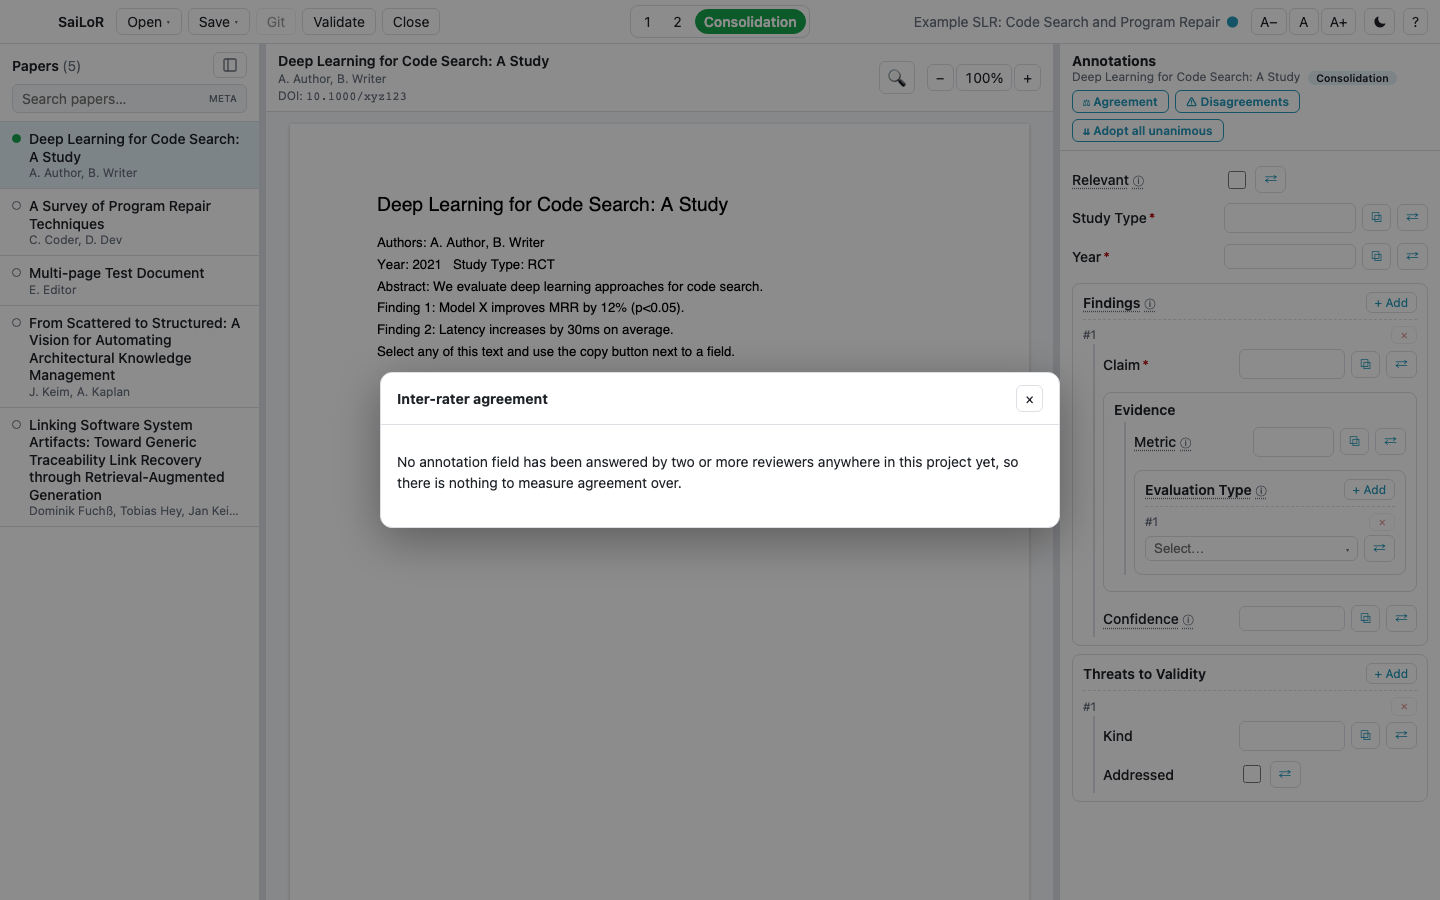
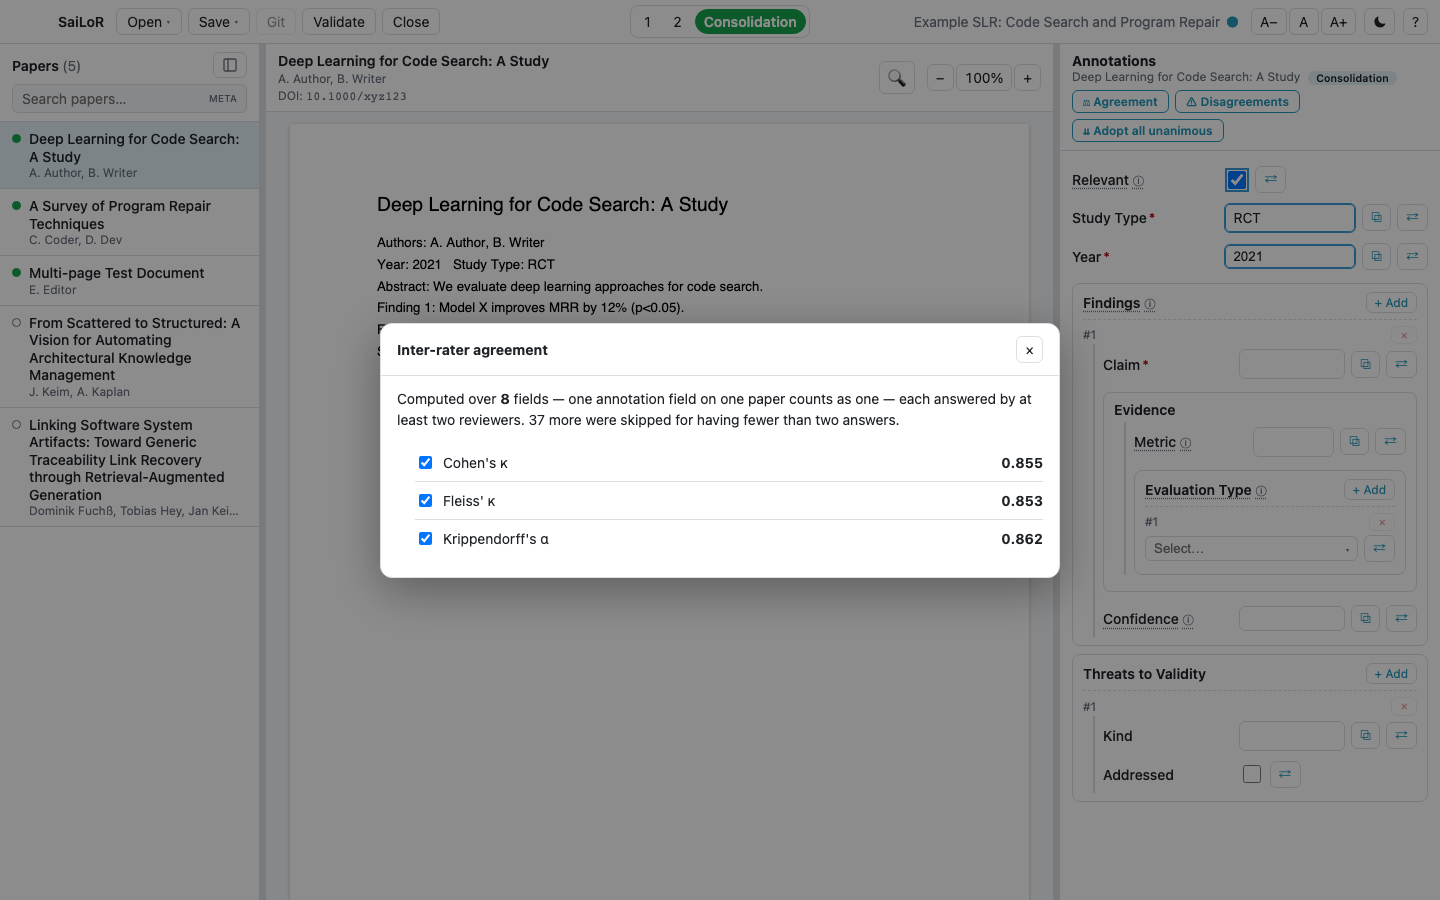
Recapture the Agreement/Disagreements screenshots with real data
Both dialogs previously showed their empty state: the earlier capture
script had each reviewer answer a different field, so no field was
ever rated by two reviewers and there was nothing to compute agreement
over. Recaptured with two reviewers actually annotating three papers
on the same fields (mostly matching, with one deliberate mismatch), so
the Agreement dialog now shows real Cohen's/Fleiss'/Krippendorff's
values and the Disagreements dialog shows a real entry instead of
"None".

Changed region(s): [[0.25, 0.3422, 0.75, 0.6533], [0.8438, 0.1867, 0.9375, 0.3111]]

diff --git a/user-guide/multi-reviewer.md b/user-guide/multi-reviewer.md
@@ -62,7 +62,7 @@ silently recording an empty "agreement".
 Two buttons above the annotation fields, visible only in the Consolidation seat:
 
 <p align="center">
-  <img src="screenshots/disagreements-dialog.png" alt="The Disagreements dialog" width="700">
+  <img src="screenshots/disagreements-dialog.png" alt="The Disagreements dialog listing one field where the two reviewers gave different answers, with both answers shown side by side" width="700">
 </p>
 
 **⚠ Disagreements** lists every field the reviewers answered differently, across the whole project —
@@ -70,7 +70,7 @@ click one to jump straight to it instead of hunting paper by paper. **⚖ Agreem
 inter-rater coefficients — Cohen's κ, Fleiss' κ, and Krippendorff's α — tick any combination you want.
 
 <p align="center">
-  <img src="screenshots/agreement-dialog.png" alt="The Agreement dialog" width="700">
+  <img src="screenshots/agreement-dialog.png" alt="The Agreement dialog showing Cohen's kappa, Fleiss' kappa, and Krippendorff's alpha all computed from real overlapping annotations" width="700">
 </p>
 
 A coefficient that can't honestly be computed for your project yet (nothing overlapping between
